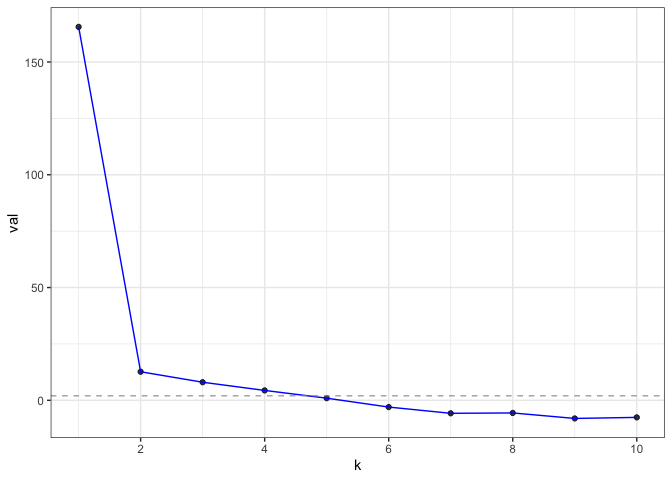
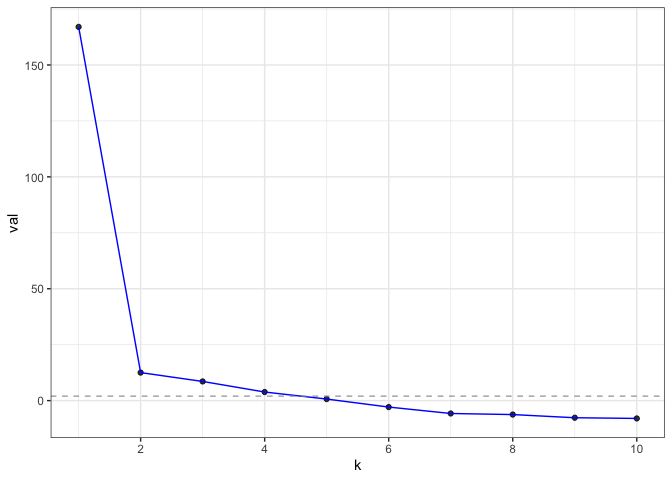
ignore cache

diff --git a/README.md b/README.md
@@ -112,11 +112,11 @@ pcs$row_features %>% sample_n(size = 3)
 ```
 
     ## # A tibble: 3 × 11
-    ##   month   day row_id degree weighted_degree pc_1_rows pc_2_rows pc_3_rows
-    ##   <int> <int>  <int>  <int>           <dbl>     <dbl>     <dbl>     <dbl>
-    ## 1     3    10    161     88             908     0.985    -1.42      0.305
-    ## 2     3     9    160     82             765     0.906    -2.08     -2.18 
-    ## 3     5    19    231     89             911     0.987     0.285    -0.160
+    ##   month   day row_num degree weighted_degree pc_1_rows pc_2_rows pc_3_rows
+    ##   <int> <int>   <int>  <int>           <dbl>     <dbl>     <dbl>     <dbl>
+    ## 1     8     2     306     85             999      1.04    -1.09      0.586
+    ## 2     3    11     162     85             980      1.03     1.24     -1.00 
+    ## 3    12    27     119     90             963      1.01     0.440     0.955
     ## # ℹ 3 more variables: pc_4_rows <dbl>, pc_5_rows <dbl>, pc_6_rows <dbl>
 
 ``` r
@@ -124,11 +124,11 @@ pcs$column_features %>% sample_n(size = 3)
 ```
 
     ## # A tibble: 3 × 10
-    ##   dest  col_id degree weighted_degree pc_1_columns pc_2_columns pc_3_columns
-    ##   <chr>  <int>  <int>           <dbl>        <dbl>        <dbl>        <dbl>
-    ## 1 MSY       26    365            3799       1.09         0.433        -0.555
-    ## 2 ANC      104      8               8       0.0100       0.0744       -0.509
-    ## 3 TPA       10    365            7466       1.53        -0.524        -1.07 
+    ##   dest  col_num degree weighted_degree pc_1_columns pc_2_columns pc_3_columns
+    ##   <chr>   <int>  <int>           <dbl>        <dbl>        <dbl>        <dbl>
+    ## 1 MHT        64    364            1009        0.551       0.240       -0.0287
+    ## 2 MCI        72    365            2008        0.791      -0.326       -0.481 
+    ## 3 CAK        58    365             864        0.519      -0.0962      -0.0434
     ## # ℹ 3 more variables: pc_4_columns <dbl>, pc_5_columns <dbl>,
     ## #   pc_6_columns <dbl>
 
@@ -179,11 +179,11 @@ airports %>% sample_n(size = 3)
 ```
 
     ## # A tibble: 3 × 8
-    ##   faa   name                     lat    lon   alt    tz dst   tzone             
-    ##   <chr> <chr>                  <dbl>  <dbl> <dbl> <dbl> <chr> <chr>             
-    ## 1 99N   Bamberg County Airport  33.3  -81.1   231    -5 A     America/New_York  
-    ## 2 FSD   Sioux Falls             43.6  -96.7  1429    -6 A     America/Chicago   
-    ## 3 RNM   Ramona Airport          33.0 -117.   1395    -8 A     America/Los_Angel…
+    ##   faa   name                             lat    lon   alt    tz dst   tzone     
+    ##   <chr> <chr>                          <dbl>  <dbl> <dbl> <dbl> <chr> <chr>     
+    ## 1 AKB   Atka Airport                    52.2 -174.     56    -9 A     America/A…
+    ## 2 ORV   Robert Curtis Memorial Airport  66.8 -161.     55    -9 A     America/A…
+    ## 3 RCZ   Richmond County Airport         34.9  -79.8   358    -5 A     America/N…
 
 ``` r
 # first, get the lat and lon for the airports:
@@ -199,6 +199,16 @@ airport_dat = pcs$column_features %>%
 
 ``` r
 library(maps)
+```
+
+    ## 
+    ## Attaching package: 'maps'
+    ## 
+    ## The following object is masked from 'package:purrr':
+    ## 
+    ##     map
+
+``` r
 usa_map <- map_data("state")
 p <- ggplot() + 
   geom_polygon(data = usa_map, aes(x = long, y = lat, group = group), 
@@ -462,16 +472,16 @@ cv_eigs
     ## 
     ##  ------------ Summary of Tests ------------
     ##   k           z        pvals         padj
-    ##   1 165.5550526 0.000000e+00 0.000000e+00
-    ##   2  12.6618879 4.807934e-37 4.807934e-37
-    ##   3   8.0171763 5.410190e-16 5.410190e-16
-    ##   4   4.3858322 5.777157e-06 5.777157e-06
-    ##   5   0.9516043 1.706488e-01 1.706488e-01
-    ##   6  -2.9938074 9.986224e-01 9.986224e-01
-    ##   7  -5.7625322 1.000000e+00 1.000000e+00
-    ##   8  -5.6018706 1.000000e+00 1.000000e+00
-    ##   9  -8.0374641 1.000000e+00 1.000000e+00
-    ##  10  -7.5687326 1.000000e+00 1.000000e+00
+    ##   1 167.0166239 0.000000e+00 0.000000e+00
+    ##   2  12.5243728 2.746190e-36 2.746190e-36
+    ##   3   8.5710569 5.126980e-18 5.126980e-18
+    ##   4   3.8470263 5.978007e-05 5.978007e-05
+    ##   5   0.7031481 2.409817e-01 2.409817e-01
+    ##   6  -2.8736978 9.979715e-01 9.979715e-01
+    ##   7  -5.7475578 1.000000e+00 1.000000e+00
+    ##   8  -6.2275474 1.000000e+00 1.000000e+00
+    ##   9  -7.6475778 1.000000e+00 1.000000e+00
+    ##  10  -7.9602840 1.000000e+00 1.000000e+00
 
 Notice that the top-line of the printout says that the estimated graph
 dimension is 4. So, we will use `k=6` and see that in this example they
@@ -520,9 +530,9 @@ sample_n(pcs$row_features, size = 3)
     ## # A tibble: 3 × 11
     ##   month   day row_num degree weighted_degree pc_1_rows pc_2_rows pc_3_rows
     ##   <int> <int>   <int>  <int>           <dbl>     <dbl>     <dbl>     <dbl>
-    ## 1     8    30     334     88             965      1.02    -1.14    -0.0330
-    ## 2     5    29     241     89             974      1.02    -0.517    0.606 
-    ## 3    10    23      54     84             975      1.03    -1.02     0.684 
+    ## 1     6    21     264     89             993     1.03      0.822     0.269
+    ## 2     7    25     298     86            1003     1.04      1.04      0.118
+    ## 3     7    28     301     90             930     0.993     0.763     1.11 
     ## # ℹ 3 more variables: pc_4_rows <dbl>, pc_5_rows <dbl>, pc_6_rows <dbl>
 
 ``` r
@@ -532,9 +542,9 @@ sample_n(pcs$column_features, size=3)
     ## # A tibble: 3 × 10
     ##   dest  col_num degree weighted_degree pc_1_columns pc_2_columns pc_3_columns
     ##   <chr>   <int>  <int>           <dbl>        <dbl>        <dbl>        <dbl>
-    ## 1 MIA         2    365           11728        1.92         0.744       -1.40 
-    ## 2 DCA        41    365            9705        1.74         0.338        2.51 
-    ## 3 BDL        63    251             443        0.335        1.43         0.743
+    ## 1 SJU        19    365            5819        1.35        -0.737        1.68 
+    ## 2 DFW        13    365            8738        1.66        -0.483       -1.23 
+    ## 3 ORF        73    365            1536        0.689       -0.855        0.108
     ## # ℹ 3 more variables: pc_4_columns <dbl>, pc_5_columns <dbl>,
     ## #   pc_6_columns <dbl>
 
